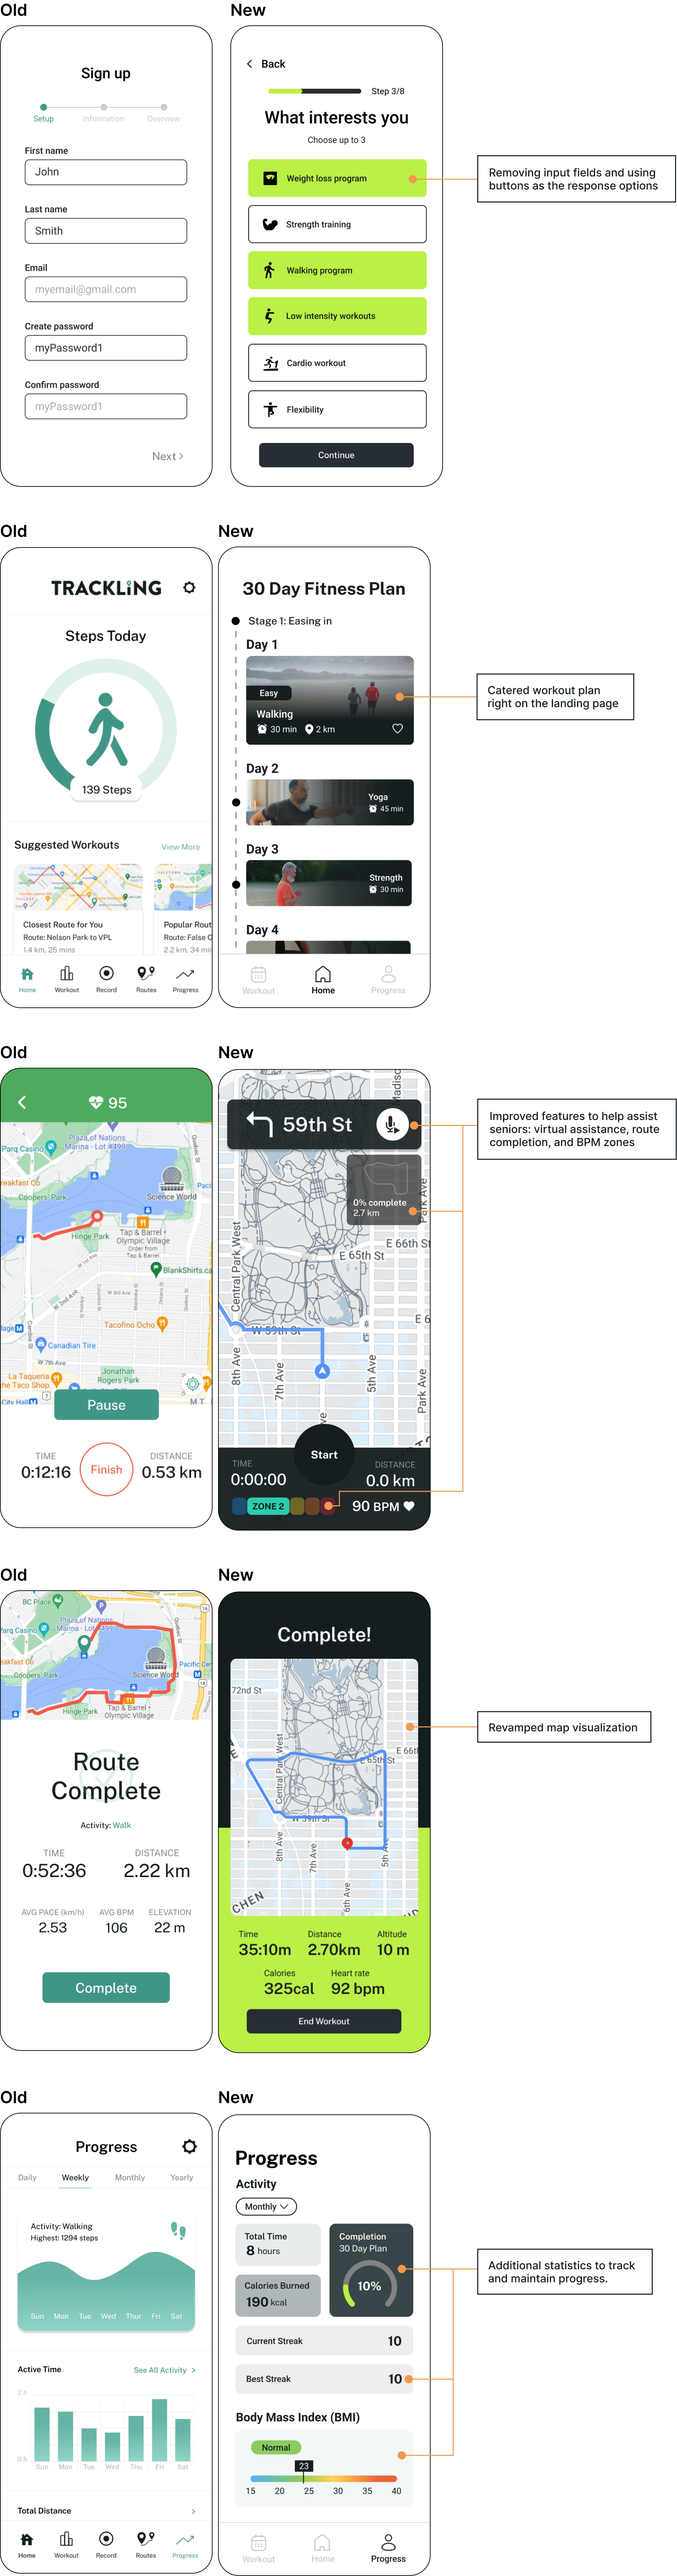
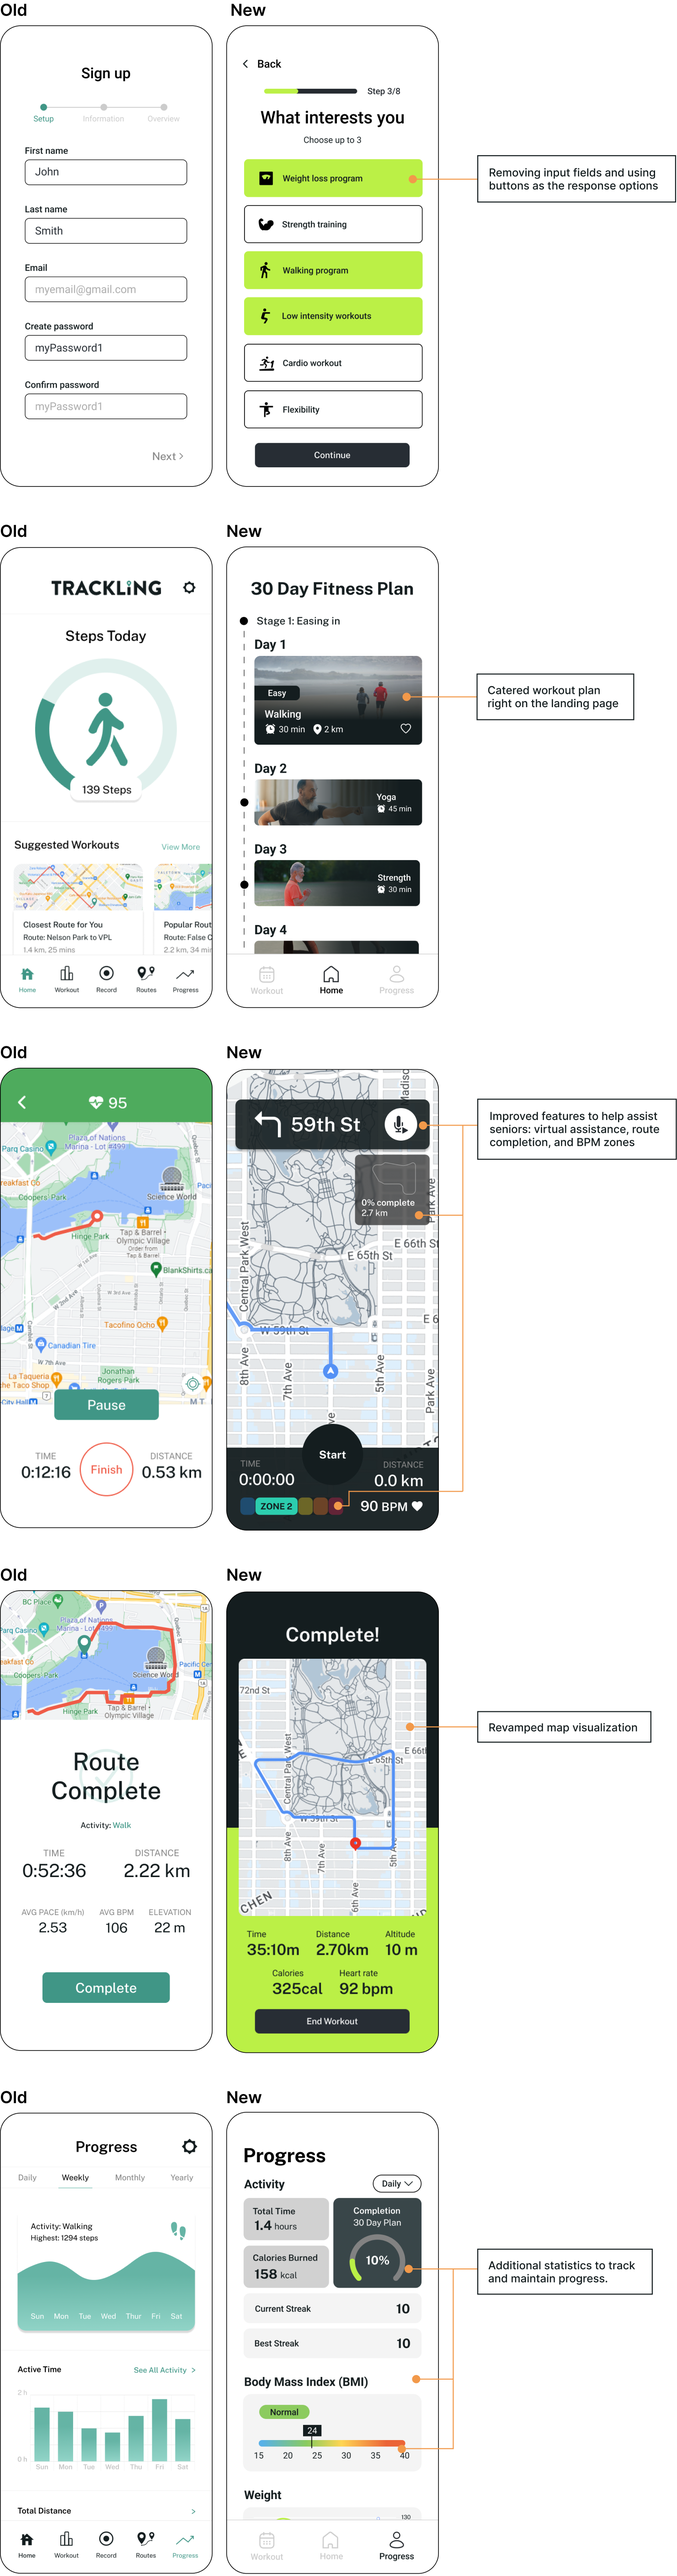
trackling changes

diff --git a/trackling.html b/trackling.html
@@ -128,9 +128,9 @@
 
         <div>
             <h3>Affinity Map</h3>
-            <p>Goal: Determine a problem area</p>
-            <p>With our research on Mobility and Movement, we compiled all our data on<strong> Miro</strong> to observe the different topics within our domain.</p>
-            <p>Using Nielsen Norman's <strong>severity rating</strong>, our group narrowed down to focus on<strong> physical awarness</strong> because we had stronger supporting evidence from interviews and primary sources.</p>
+            <h4>Goal: Determine a problem area</h4>
+            <p>From our research and <strong>8 interviews</strong> with seniors, we compiled all our data on<strong> Miro</strong> to observe the different topics within our domain.</p>
+            <p>Using Nielsen Norman's <strong>severity rating</strong>, our group narrowed down to focus on<strong> physical awarness</strong> because it had the highest score of <strong>frequency, impact, and persistance.</strong></p>
 
             <img src="img/trackling-affinitymap.png" class="modal-target" alt="Image of affinity diagram" >
 
@@ -149,7 +149,7 @@
             <h1>How might we help seniors stay <em>within their physical limits</em> and set <em>realistic expectations?</em></h1>
             <h1>How might we cater the <em>appropriate exercises</em> for seniors to feel confident?</h1>
         </div>
-    </div>  <!-- ea-focus -->
+    </div>  <!-- trackling-focus -->
 
     
 
@@ -157,7 +157,7 @@
     <div class="track-CA">
         <div>
         <h3>Competitive Analysis</h3>
-        <p>Goal: Discover how exisiting applications help users understand and stay within their physical limits.</p>
+        <h4>Goal: Discover how exisiting applications help users understand and stay within their physical limits.</h4>
         </div>
     </div> <!-- track-CA-grid -->
 
@@ -237,11 +237,11 @@
 
         <div class="sub-sec">
             <h3>User Testing</h3>
-            <p>With our first prototype we conducted four <strong>users tests</strong> with seniors from <strong>ages 50-70,</strong> we learned that...</p>
+            <p>With our first prototype we conducted <strong>4 users tests</strong> with seniors from <strong>ages 50-70.</strong></p>
             <div class="thefinding-CA-track">
-                <p>Seniors pay more attention to <strong>content</strong> and <strong>instructions</strong> rather than the visual cues</p>
+                <p>We learned that seniors pay more attention to <strong>content</strong> and <strong>instructions</strong> rather than the visual cues</p>
             </div>
-            <p>For our next iteration, we ensured that language and instructions were <strong>clear</strong>, yet enough to maintain a simple-to-read interface.</p>
+            <p>For our next iteration, we ensured that <strong>language</strong> and instructions were <strong>clear</strong>, yet enough to maintain a simple-to-read interface.</p>
         </div>
 
         <div class="sub-sec-img">
@@ -249,6 +249,27 @@
             <img class="modal-target" src="img/trackling-sec-draft.png">
         </div>
 
+        <div>
+            <h3>Iteration Change</h3>
+            <p>You might wonder, why there is a big difference from the first and second iteration? I decided to revisit this project and question the previous design decisions. </p>
+        </div>
+
+        </section> <!-- process -->
+    </div> <!-- main-content -->
+
+
+    <!--   REDEFINED DESIGN SPACE -->
+    <div class="trackling-focus highlight-light">
+        <div class="highlight-content-light">
+            <h2>Redefined Design Space</h2>
+            <h1>How might we <em>simply</em> the <em>user experience</em> and <em>enhance</em> the <em>interface</em> while considering the accessibility of senior users.</h1>
+        </div>
+    </div>  <!-- trackling-focus -->
+
+
+    <!-- RESEARCH -->
+    <div class="main-content">
+        <section class="process">
         <div class="sub-sec-img">
             <h3>Usability Heuristics</h3>
 
@@ -263,60 +284,6 @@
 
             <img class="modal-target" src="img/trackling-accessibility.png">
         </div>
-
-<!--  
-            <h3 class="number">01</h3>
-            <p class="sMargin-p">Increased font size</p>
-        
-
-            <div class="trac-access-grid">
-                <figure>
-                    <img class="modal-target" src="img/trackling-testing1a.png" class="img-trackling-usertesting">
-                    <figcaption>Old</figcaption>
-                </figure>
-                <figure>
-                    <img class="modal-target" src="img/trackling-testing1b.png" class="img-trackling-usertesting">
-                    <figcaption>New</figcaption>
-                </figure>
-            </div>
-
-            <h3 class="number">02</h3>
-            <p class="sMargin-p">Avoid high contrast colours</p>
-            <div class="trac-access-grid">
-                <figure>
-                    <img class="modal-target" src="img/trackling-testing2.png" class="img-trackling-usertesting">
-                    <figcaption>Old</figcaption>
-                </figure>
-                <figure>
-                    <img class="modal-target" src="img/trackling-testing2a.png" class="img-trackling-usertesting">
-                    <figcaption>New</figcaption>
-                </figure>
-            </div>
-
-            <h3 class="number">03</h3>
-            <p class="sMargin-p">Adopting simplified Language</p>
-            <div class="trac-access-grid">
-                <figure>
-                    <img class="modal-target" src="img/trackling-testing4.png" class="img-trackling-usertesting">
-                    <figcaption>Old</figcaption>
-                </figure>
-
-                <figure>
-                    <img class="modal-target" src="img/trackling-testing4a.png" class="img-trackling-usertesting">
-                    <figcaption>New</figcaption>
-                </figure>
-            </div>
-        </div> --><!-- trac-access-grid-->
-
-            <!-- <div class="trac-access-grid">
-                <figure>
-                    <img class="modal-target" src="img/trackling-heuristic1.png">
-                </figure>
-                
-                <figure>
-                    <img class="modal-target" src="img/trackling-heuristic2.png">
-                </figure>
-            </div>-->
 
 
         </section> <!-- process -->
@@ -371,8 +338,8 @@
                 <div class="trackling-gif-grid">
                     <img src="img/trackling-solution1.gif" >
                     <div>
-                        <h4>Data Syncing</h4>
-                        <p>After installing, the user can input their information by <strong>syncing their health data from other applications or devices</strong> to create a seamless and personalized experience.</p>
+                        <h4>Signup Process</h4>
+                        <p>Minimizing and <strong>simplifying</strong> the onboarding process to understand user’s fitness needs and goals without introducing input fields.</p>
                     </div>
                 </div>
             </div>
@@ -383,9 +350,9 @@
                 <div class="trackling-gif-grid">
                     <img src="img/trackling-solution2.gif" >
                     <div>
-                        <h4>Activity Routes</h4>
-                        <p>In the workouts page, the user is given the option of choosing a <strong> walking route within their vicinity</strong> or building her own route.</p>
-                        <p>Each option provides them with the distance, estimated time, <strong>elevation gain</strong>, as well as <strong>cautions</strong> that they might need to consider such as gravel or uneven surfaces.</p>
+                        <h4>Activity Options</h4>
+                        <p>Providing users with a <strong>fitness plan</strong> of daily suggested workouts that cater to their physical <strong>needs and goals.</strong></p>
+                        <p>Alternatively, users have the choice of choosing other activities in the workouts page.</p>
                     </div>
                 </div> 
             </div>
@@ -397,9 +364,9 @@
                     <img src="img/trackling-solution3.gif" >
                     <div>
                         <h4>Real-Time Health Report</h4>
-                        <p>On the walk, the user is provided with <strong>real-time notifications</strong> that is dependent of her 'zone'.</p>
-                        <p>If they enter the <strong class="yellow-font">yellow</strong> zone, the system will send a notification. In the <strong class="red-font">red</strong> zone, the notification will include <strong>audio and haptic alerts</strong> to notify the user to take a break until their BPM reaches a safe zone.</p>
-                        <p>Utilizing <strong>traffic light</strong> colours not only help stand out from their surroundings but also are <strong>recognizable to seniors</strong> as they are incorporated in our daily life.</strong></p>
+                        <p>On the walk, the user is provided with <strong>real-time notifications</strong> that is dependent of their 'zone'.</p>
+                        <p>If they enter <strong class="orange-font">zone 4</strong>, the app will send a notification. In <strong class="red-font">zone 5</strong> , the notification will include <strong>audio and haptic alerts</strong> to notify the user to take a break until their BPM reaches a safe zone.</p>
+                        <p>Utilizing <strong>primary colours</strong> not only helps features stands out from their surroundings but also are <strong>recognizable to seniors</strong> as they are incorporated in our daily life.</strong></p>
                     </div>
                 </div>
             </div>
@@ -410,8 +377,9 @@
                 <div class="trackling-gif-grid">
                     <img src="img/trackling-solution4.gif" >
                     <div>
-                    <h4>Activity Survey</h4>
-                    <p>After a workout, Trackling prompts a simply and quick post workout survey to understand the user's <strong>emotional and physical state</strong> for better catered <strong>recommended workouts.</strong></p>
+                    <h4>Activity Tracking</h4>
+                    <p>After a workout, an <strong>overview</strong> of the <strong>stats</strong> and a <strong>simple survey</strong> are provided to the user. The workout is then noted as ‘Completed’ in the Home page.</p>
+                    <p>In the Progress page, you can keep track of your completed workouts and other personal achievements.</p>
                     </div>
                 </div>
             </div>

diff --git a/css/main.css b/css/main.css
@@ -837,6 +837,13 @@ display: inline-block;
 	color: red;
 }
 
+.orange-font{
+	color: #F07C33;
+}
+
+.red-font{
+	color: #D92E5B;
+}
 
 .wip-project:hover .splitwise-project-h5, .wip-project:hover  .splitwise-project-h3{
   color: transparent;
